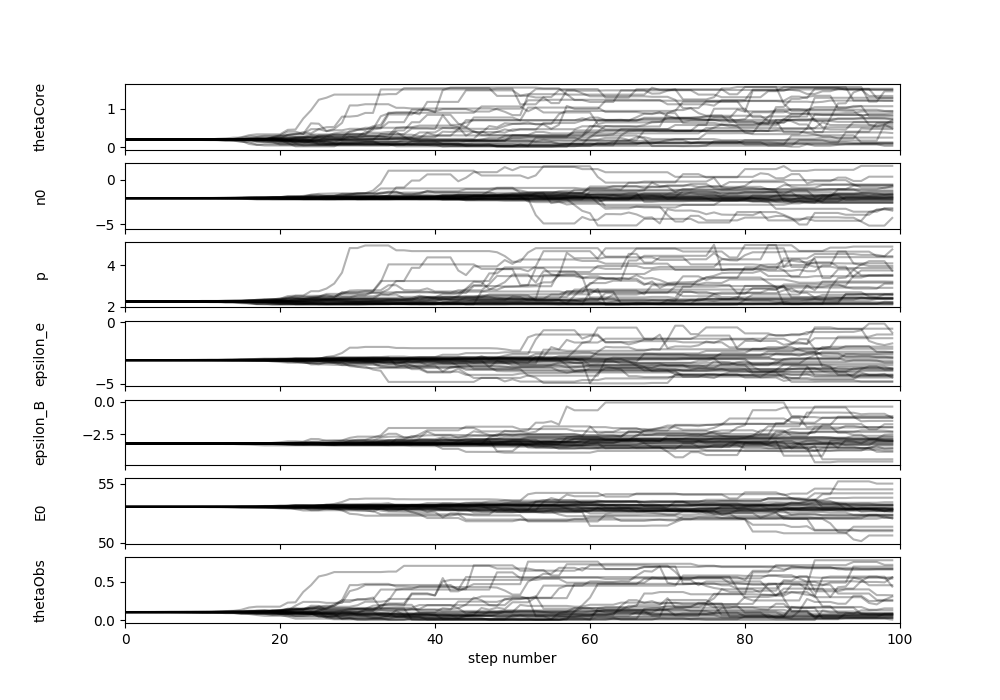
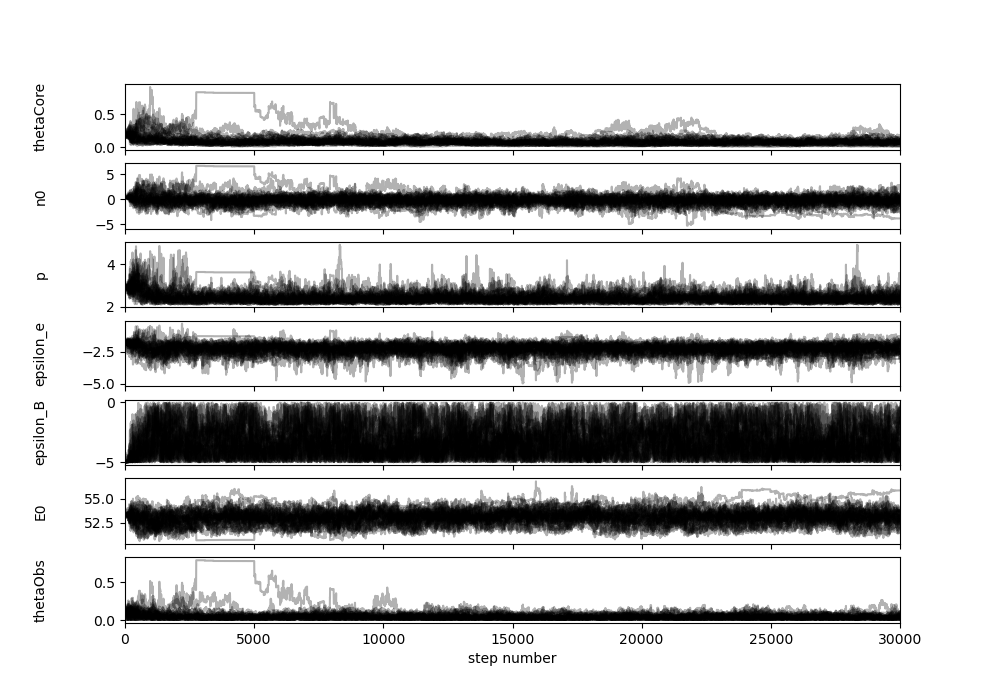
nulled out time and spec error for now after talk with supervisor and got 7 param search up to scratch but likely mainly gonna use 6 param search

diff --git a/Flux_samplers/run_sampling.py b/Flux_samplers/run_sampling.py
@@ -14,30 +14,37 @@ from functools import partial
 import concurrent.futures
 import sampler as splr
     
-initial = np.array([0.1,0.0,2.3,-2,-4,53])
+initial = np.array([0.3,-1,3,-3,-3,55])
 
 nu = np.geomspace(1e0, 1e20, num=7)
 t = np.geomspace(1e-1 * grb.day2sec, 1e3 * grb.day2sec, num=17)
 
 x = [t,nu]
-F = np.array(Flux(x,0.1,0,2.3,-2,-4,53,0.0,1,1e26,0.01))
+#print(nu[6])
+F = np.array(splr.Flux(x,0.1,0,2.3,-2,-4,53,0.0,1,1e26,0.01))
+time_error_1d = 0.0*t
+spec_error_1d = 0.0*nu
+err_time = np.tile(time_error_1d[:, np.newaxis], (1, len(nu)))
+err_spec = np.tile(spec_error_1d, (len(t), 1))
 
 #F2 = np.array(Flux(x,0.1,0,2.3,-2,-4,53,0.0,1,1e26,0.01))
 noise_level = abs(0.05*F)
 F_noise = F + np.random.normal(0, noise_level, size=F.shape)
-yerr = abs(0.05*F)
+err_flux = abs(0.05*F)
+err = [err_flux,err_time,err_spec]
 truth = [0.1,0.0,2.3,-2,-4,53]
 
 
 #if __name__ == "__main__":
-    #run_parallel_optimization(x,F_noise,initial,yerr,processes=6)
-#run_optimization(x,F_noise,initial,yerr)
+    #splr.run_parallel_optimization(x,F_noise,initial,err,processes=4)
+#splr.run_optimization(x,F_noise,initial,err)
+
 
 if __name__ == "__main__":
-    splr.run_sampling(x,F,initial,yerr,steps=100,processes=6,genfile=1,filename='./data/test.h5')
+    splr.run_sampling(x,F,initial,err,steps=1000,processes=6,genfile=1,filename='./data/err_3D.h5')
 
 
-    file_path = './data/test.h5'
+    file_path = './data/err_3D.h5'
     if not os.path.exists(file_path):
         raise FileNotFoundError(f"The HDF5 file '{file_path}' does not exist.")
     backend = emcee.backends.HDFBackend(file_path)
@@ -64,9 +71,9 @@ if __name__ == "__main__":
         ax.set_ylabel(labels[i])
         ax.yaxis.set_label_coords(-0.1, 0.5)
     axes[-1].set_xlabel("step number")
-    fig.savefig('./graph/test.png')
+    fig.savefig('./graph/err_3D_steps.png')
     plt.close(fig)
     flat_samples = reader.get_chain(discard=burnin,thin=thin,flat=True)#
     fig2 = corner.corner(flat_samples, labels=labels, truths=truth)
-    fig2.savefig('./graph/test2.png')
+    fig2.savefig('./graph/err_3D_contour.png')
     plt.close(fig2)

diff --git a/sampling_testing/sampler.py b/sampling_testing/sampler.py
@@ -78,13 +78,12 @@ def log_likelihood(theta, x, y, err, thetaObs, xi_N, d_L, z):
     model = model[mask]
     
     # Calculate the combined error term (flux, time, and spectral errors)
-    sigma2 = err_flux**2 + (y*err_time/time)**2 + (y*err_spec/spec)**2 + model**2
+    sigma2 = err_flux**2 + model**2
     
-    # Optional penalty for parameters outside certain bounds
-    penalty_factor = 2 * np.where(abs(n0) > 4, (abs(n0) - 4) ** 2, 0)
+
     #print(-0.5 * np.sum(np.exp(abs(y - model)) * (y - model)**2 / sigma2) - penalty_factor)
     # Calculate the negative log-likelihood
-    return -0.5 * np.sum(np.exp(abs(y - model)) * (y - model)**2 / sigma2) - penalty_factor
+    return -0.5 * np.sum((y - model)**2 / sigma2)
 
 def log_probability(theta, x, y, err, thetaObs, xi_N, d_L, z):
     # Calculate the log-prior

diff --git a/Data_Generation/fake_data_v1.py b/Data_Generation/fake_data_v1.py
@@ -1,0 +1,19 @@
+import numpy as np
+import afterglowpy as grb
+import emcee
+import matplotlib.pyplot as plt
+from scipy.optimize import minimize
+from scipy.optimize import curve_fit
+import corner
+import os
+import sys
+import multiprocessing
+from multiprocessing import Pool
+import time
+from functools import partial
+import concurrent.futures
+
+
+# try generation in 3 bands x-ray, optical, radio
+#x-ray generation
+

diff --git a/sampling_testing/run_sampling.py b/sampling_testing/run_sampling.py
@@ -22,8 +22,8 @@ t = np.geomspace(1e-1 * grb.day2sec, 1e3 * grb.day2sec, num=17)
 x = [t,nu]
 #print(nu[6])
 F = np.array(splr.Flux(x,0.1,0,2.3,-2,-4,53,0.0,1,1e26,0.01))
-time_error_1d = 0.05*t
-spec_error_1d = 0.05*nu
+time_error_1d = 0.0*t
+spec_error_1d = 0.0*nu
 err_time = np.tile(time_error_1d[:, np.newaxis], (1, len(nu)))
 err_spec = np.tile(spec_error_1d, (len(t), 1))
 
